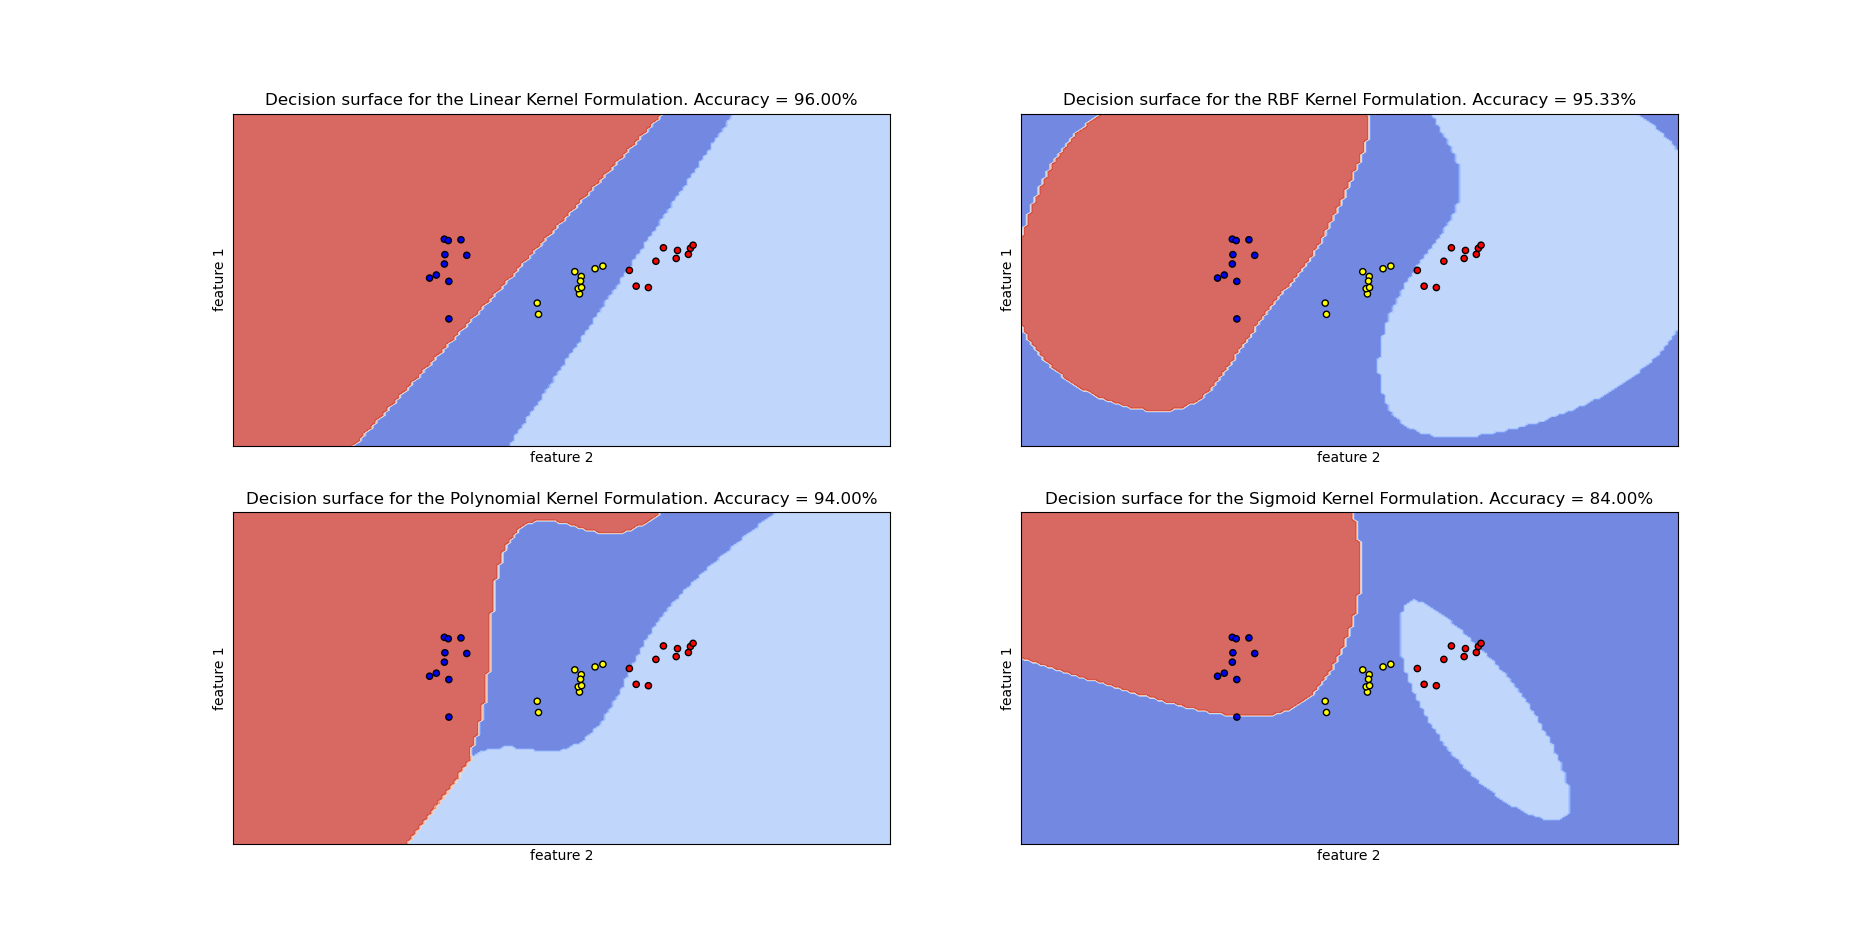
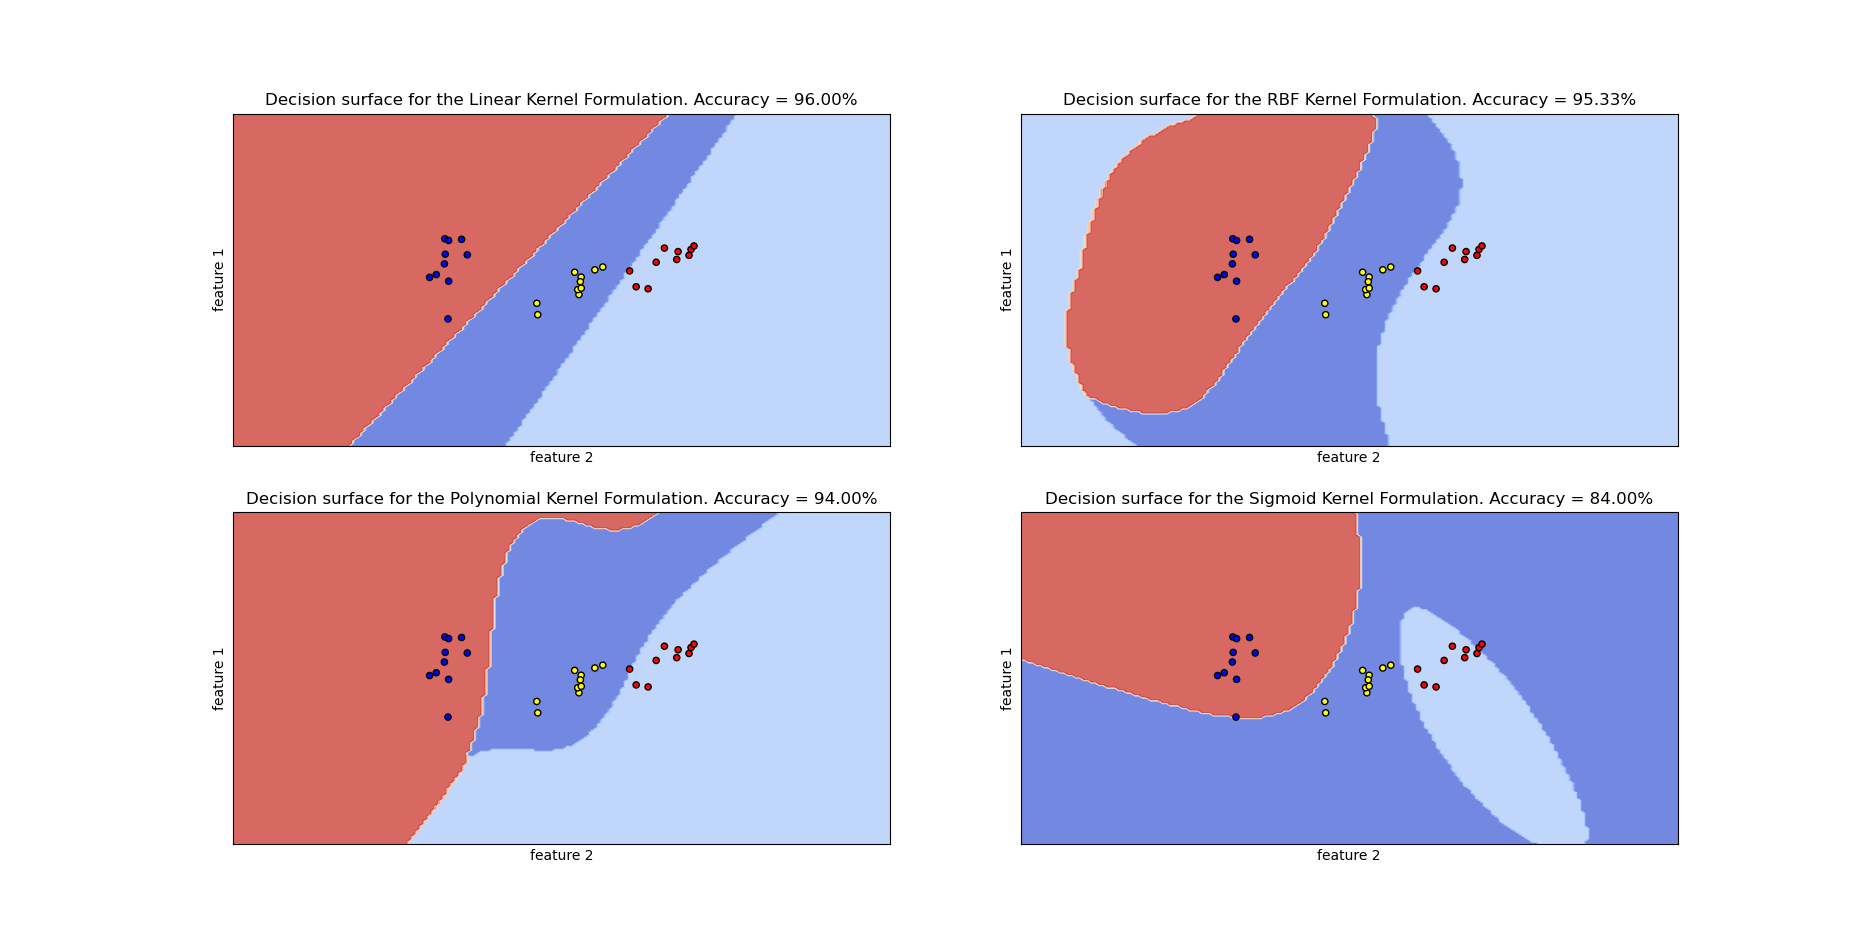
svm.py and naive_bayes.py update
fixed PCA code in svm.py, added KFold to the naive_bayes.py

diff --git a/naive_bayes.py b/naive_bayes.py
@@ -5,7 +5,7 @@ import pandas as pd
 from sklearn import svm
 from sklearn.metrics import accuracy_score, confusion_matrix
 from sklearn.naive_bayes import GaussianNB
-from sklearn.model_selection import train_test_split
+from sklearn.model_selection import StratifiedKFold
 from sklearn.decomposition import PCA
 
 # import data
@@ -28,22 +28,36 @@ pca_model.fit(X)
 print("Explained variance sums to {:.2f}".format(100*np.sum(pca_model.explained_variance_ratio_)))
 X_PCA = pca_model.transform(X)
 
-x_train, x_test, y_train, y_test = train_test_split(X_PCA, Y, train_size = 0.7)
 
+i = 0
+n = 5
+kfold = StratifiedKFold(n_splits = n, shuffle = True)
+accuracy = np.zeros([2, n])
 
-# RBF kernel SVM was chosen as the best. Ideally this would be picked based on
-# the validation loss, but this should work fine for comparison's sake
-rbf = svm.SVC(kernel = 'rbf', C = 1)
-rbf.fit(x_train, y_train)
+for train, test in kfold.split(X, Y):
+    
+    # RBF kernel SVM was chosen as the best. Ideally this would be picked based on
+    # the validation loss, but this should work fine for comparison's sake
+    rbf = svm.SVC(kernel = 'rbf', C = 1)
+    rbf.fit(X[train], Y[train])
+    
+    # Let's see how a Naïve Bayers holds against this
+    bayes = GaussianNB()
+    bayes.fit(X[train], Y[train])
+    
+    # predictions
+    y_pred_rbf = rbf.predict(X[test])
+    y_pred_bayes = bayes.predict(X[test])
+    
+    # registering the accuracies
+    accuracy[0, i] = accuracy_score(Y[test], y_pred_rbf)
+    accuracy[1, i] = accuracy_score(Y[test], y_pred_bayes)
+    
+    # index to iterate over the accuracy matrix
+    i+=1
 
-# Let's see how a Naïve Bayers holds against this
-bayes = GaussianNB()
-bayes.fit(x_train, y_train)
+print("Accuracy of the RBF Kernel SVM = {:.2f}".format(100*np.mean(accuracy[0,:])))
+print("Accuracy of the Naïve Bayes SVM = {:.2f}".format(100*np.mean(accuracy[1,:])))
 
-y_pred_rbf = rbf.predict(x_test)
-y_pred_bayes = bayes.predict(x_test)
-print("Accuracy of the RBF Kernel SVM = {:.2f}".format(100*accuracy_score(y_test, y_pred_rbf)))
-print("Accuracy of the Naïve Bayes SVM = {:.2f}".format(100*accuracy_score(y_test, y_pred_bayes)))
-
-confmat_rbf = confusion_matrix(y_test, y_pred_rbf)
-confmat_bayes = confusion_matrix(y_test, y_pred_bayes)
+# confmat_rbf = confusion_matrix(y_test, y_pred_rbf)
+# confmat_bayes = confusion_matrix(y_test, y_pred_bayes)

diff --git a/svm.py b/svm.py
@@ -66,6 +66,11 @@ print("We maintain a total of {:.2f}% of the information".format(info))
 # various margins to test out 
 C = [0.01, 0.1, 1, 10, 100, 1000]
 
+# lowering the dimension of data so that it is 2d
+# we can try to lower data dimensionality as we keep most info with 2 comps
+pca_model = PCA(n_components = 2)
+pca_model.fit(X)
+
 for margin in C:
     # k fold
     n = 5
@@ -73,21 +78,17 @@ for margin in C:
     # the advantage here is that the folds preserve the percentage of samples for each class
     # the regualr kfold might yield folds where at least one class is absent, this is
     # especially problematic in situations with class imbalance (which isnt the current case)
-    kfold = StratifiedKFold(n_splits = n)
+    kfold = StratifiedKFold(n_splits = n, shuffle = True)
     
     #4 because I'm using 4 kernels
     accuracy = np.zeros([4, n])
     i = 0
     for train, test in kfold.split(X, Y):
-        
-        # lowering the dimension of data so that it is 2d
-        # we can try to lower data dimensionality as we keep most info with 2 comps
-        pca_model = PCA(n_components = 2)
-        pca_model.fit(X[train])
-        
+         
+        #apply PCA with the fitting determined before
         x_train = pca_model.transform(X[train])
         x_test = pca_model.transform(X[test])
-         
+
         # testing 4 kernels
         linear = svm.SVC(kernel = 'linear', C = margin)
         linear.fit(x_train, Y[train])
